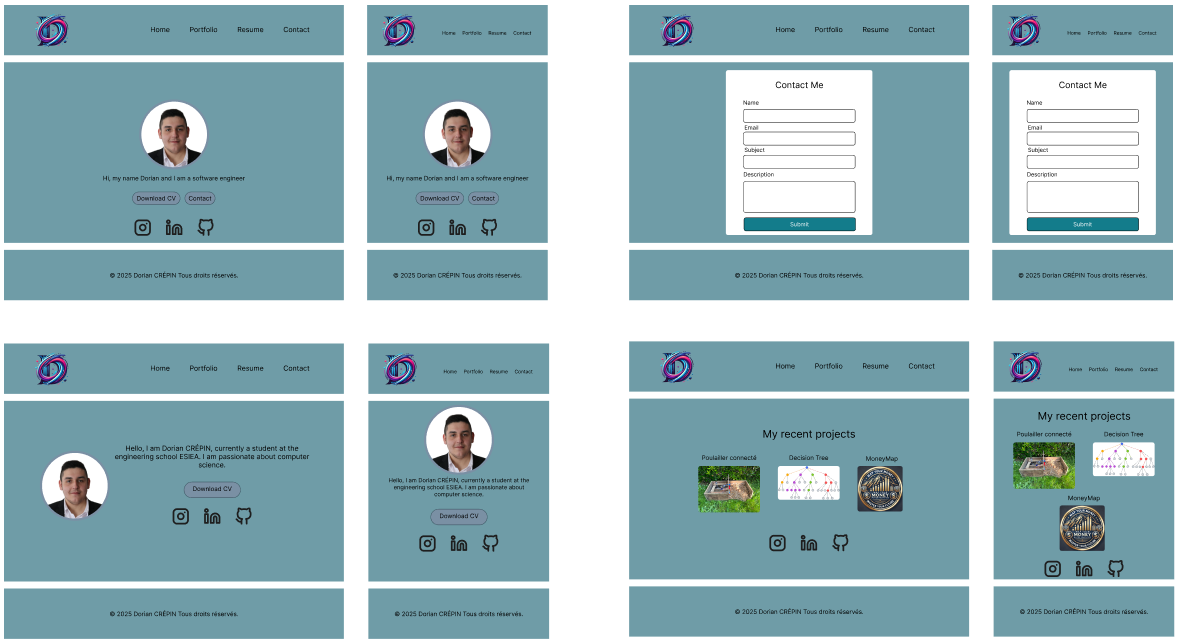
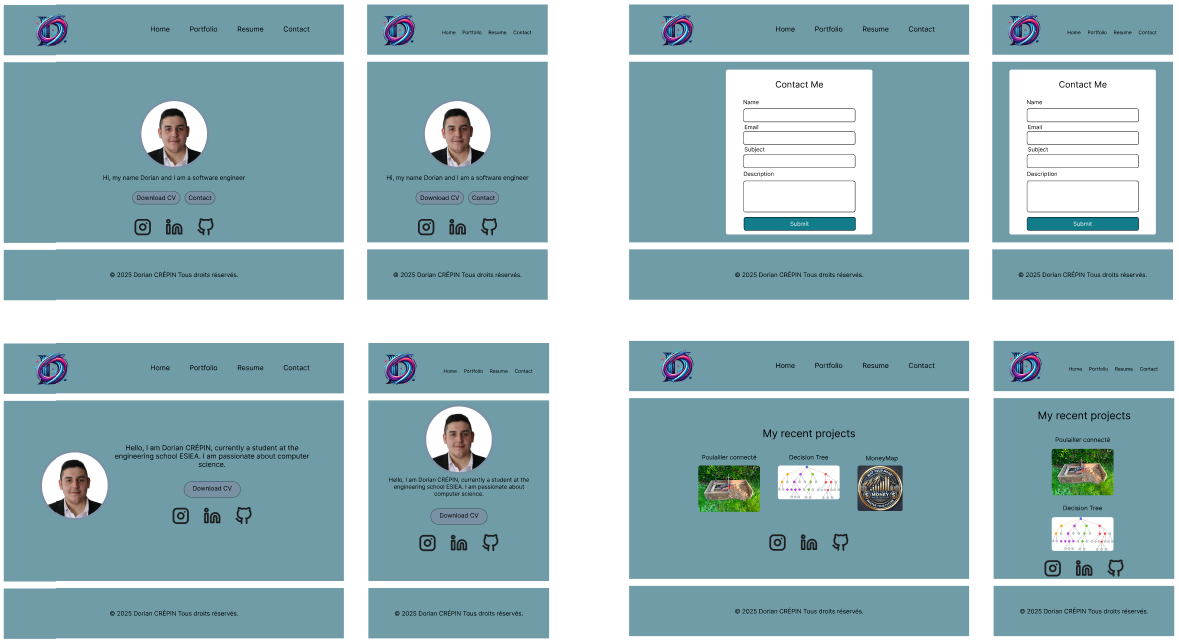
Changes for maquettage and responsive

diff --git a/assets/css/style.css b/assets/css/style.css
@@ -21,23 +21,9 @@ nav{
     font-size: 20px;
 }
 
-#logo{
-    display: flex;
-    align-items: center;
-}
-
-#logo img{
-    width: 20%;
-    height: 20%;
-    transition: 0.5s;
-}
-
-#logo:hover img{
-    transform: scaleX(1.2) scaleY(1.2);
-}
-
 nav ul{
     display: flex;
+    flex-direction: wrap;
     gap: 1rem;
     align-items: center;
 }
@@ -73,6 +59,21 @@ nav ul li a:hover{
 
 nav ul li{
     list-style: none;
+}
+
+#logo{
+    display: flex;
+    align-items: center;
+}
+
+#logo img{
+    width: 20%;
+    height: 20%;
+    transition: 0.5s;
+}
+
+#logo:hover img{
+    transform: scaleX(1.2) scaleY(1.2);
 }
 
 .dorian-section{
@@ -182,4 +183,49 @@ footer {
 .copyright {
     font-size: 25px;
     color: #000;
+}
+
+@media (max-width: 768px) {
+    nav {
+        flex-direction: column;
+        text-align: center;
+    }
+
+    nav ul {
+        flex-direction: column;
+        gap: 0.5rem;
+    }
+
+    #logo img {
+        width: 40%;
+        height: auto;
+    }
+
+    .dorian-section {
+        min-height: 50vh;
+    }
+
+    .profile {
+        width: 200px;
+        height: 200px;
+    }
+
+    .btn-group {
+        display: flex;
+        flex-direction: column;
+        align-items: center;
+    }
+
+    .btn-cv, .btn-contact {
+        width: 80%;
+        text-align: center;
+    }
+
+    .social {
+        font-size: 40px;
+    }
+
+    footer {
+        font-size: 20px;
+    }
 }

diff --git a/assets/css/resume.css b/assets/css/resume.css
@@ -174,3 +174,49 @@ footer {
     font-size: 20px;
     color: #000;
 }
+
+@media (max-width: 768px) {
+    nav {
+        flex-direction: column;
+        text-align: center;
+    }
+
+    nav ul {
+        flex-direction: column;
+        gap: 0.5rem;
+    }
+
+    #logo img {
+        width: 40%;
+        height: auto;
+    }
+
+    .dorian-section {
+        min-height: 50vh;
+        flex-direction: column;
+    }
+
+    .profile {
+        width: 200px;
+        height: 200px;
+    }
+
+    .btn-group {
+        display: flex;
+        flex-direction: column;
+        align-items: center;
+    }
+
+    .btn-cv{
+        width: 80%;
+        text-align: center;
+    }
+
+    .social {
+        font-size: 40px;
+    }
+
+    footer {
+        font-size: 20px;
+    }
+}

diff --git a/assets/css/contact.css b/assets/css/contact.css
@@ -162,3 +162,32 @@ footer {
     font-size: 20px;
     color: #000;
 }
+
+@media (max-width: 768px) {
+    nav {
+        flex-direction: column;
+        text-align: center;
+    }
+
+    nav ul {
+        flex-direction: column;
+        gap: 0.5rem;
+    }
+
+    #logo img {
+        width: 40%;
+        height: auto;
+    }
+
+    .contact-form{
+        width: 300px;
+    }
+
+    .social {
+        font-size: 40px;
+    }
+
+    footer {
+        font-size: 20px;
+    }
+}

diff --git a/assets/css/portfolio.css b/assets/css/portfolio.css
@@ -169,3 +169,28 @@ footer {
     font-size: 20px;
     color: #000;
 }
+
+@media (max-width: 768px) {
+    nav {
+        flex-direction: column;
+        text-align: center;
+    }
+
+    nav ul {
+        flex-direction: column;
+        gap: 0.5rem;
+    }
+
+    #logo img {
+        width: 40%;
+        height: auto;
+    }
+
+    .social {
+        font-size: 40px;
+    }
+
+    footer {
+        font-size: 20px;
+    }
+}
